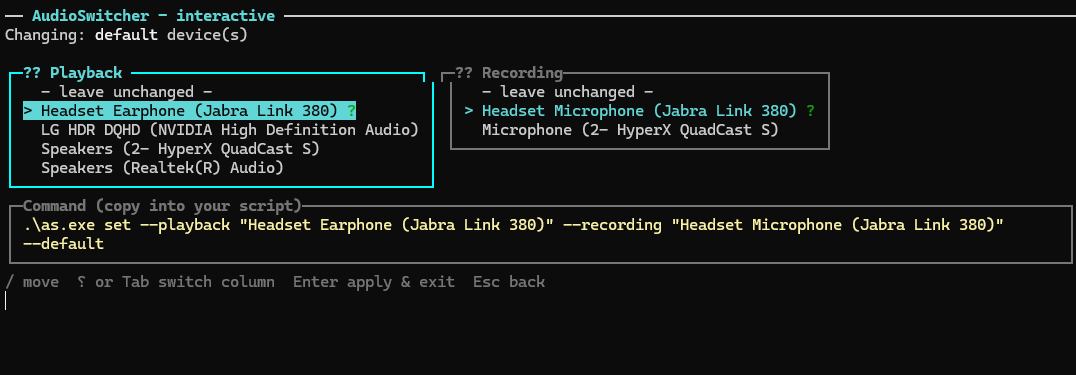
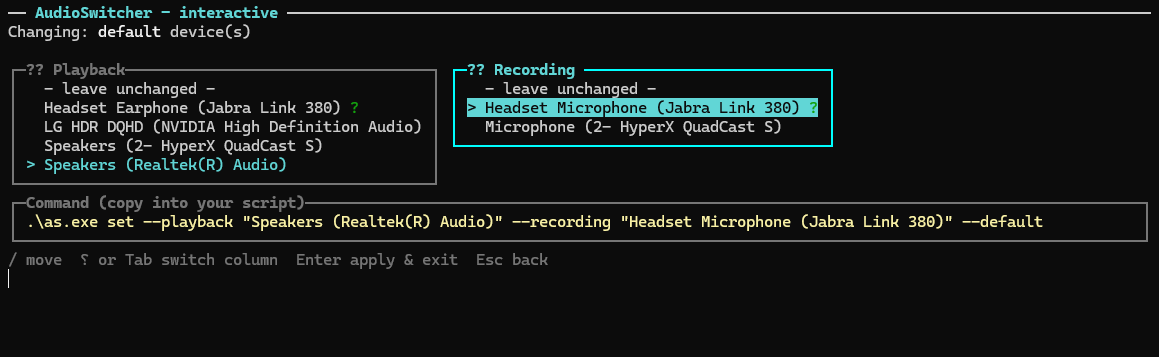
Fix

Changed region(s): [[0.0, 0.1541, 1.0, 0.7703], [0.0, 0.0, 1.0, 0.1232]]

diff --git a/Cli/InteractiveCommand.cs b/Cli/InteractiveCommand.cs
@@ -154,8 +154,9 @@ internal static class InteractiveCommand
         AnsiConsole.MarkupLine($"Changing: [bold]{CliFormat.TargetLabel(target)}[/] device(s)");
         AnsiConsole.WriteLine();
 
-        var playbackPanel = BuildColumnPanel("🔊 Playback", playbackItems, playbackCursor, active: activeColumn == 0, target);
-        var recordingPanel = BuildColumnPanel("🎙 Recording", recordingItems, recordingCursor, active: activeColumn == 1, target);
+        var columnRows = Math.Max(playbackItems.Count, recordingItems.Count);
+        var playbackPanel = BuildColumnPanel("🔊 Playback", playbackItems, playbackCursor, active: activeColumn == 0, target, columnRows);
+        var recordingPanel = BuildColumnPanel("🎙 Recording", recordingItems, recordingCursor, active: activeColumn == 1, target, columnRows);
         AnsiConsole.Write(new Columns(playbackPanel, recordingPanel).Collapse());
 
         var command = CliFormat.BuildSetCommandLine(
@@ -181,7 +182,8 @@ internal static class InteractiveCommand
         IReadOnlyList<AudioDevice?> items,
         int cursor,
         bool active,
-        RoleTarget target)
+        RoleTarget target,
+        int minRows)
     {
         var lines = new List<string>();
         for (var i = 0; i < items.Count; i++)
@@ -214,6 +216,9 @@ internal static class InteractiveCommand
 
             lines.Add(label);
         }
+
+        while (lines.Count < minRows)
+            lines.Add("  ");
 
         return new Panel(string.Join('\n', lines))
             .Header(active ? $"[bold cyan]{header} ◄[/]" : $"[bold]{header}[/]")